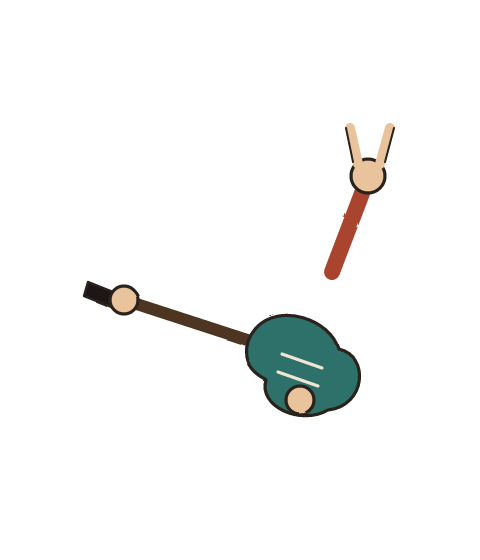
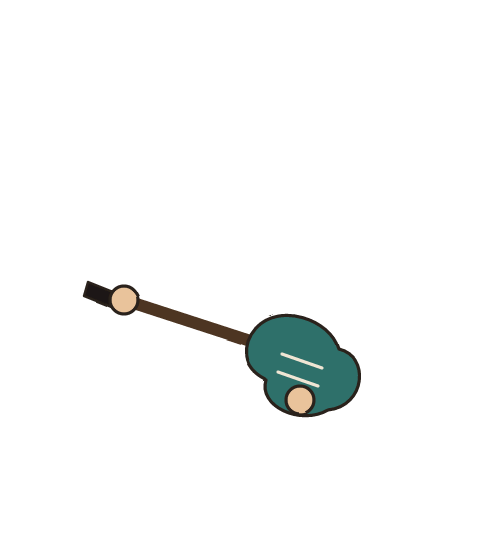
Guru as metronome with a horns hand; short, non-overlapping click flashes
Every stage now raises the horns hand (its own layer, re-rasterised; red
sweatband on stage 2, studded band on 4-5; the floating note moves left).
The arm swings about the shoulder like a pendulum, one cycle per two beats:
it passes the middle of its travel at full speed on each click and turns on
the off-beat eighths. The head moves with it, with the per-stage amplitudes
and a smooth beat-one emphasis. Phase comes from the audio clock on the play
screen and from the selected tempo on the main screen.

The click dot holds full colour for up to 50 ms and fades out within 120 ms
more or by 35 % of the beat, so each flash is over before the next click.

Changed region(s): [[0.6562, 0.2125, 0.8438, 0.5161]]

diff --git a/src/mascot.rs b/src/mascot.rs
@@ -1,6 +1,9 @@
 //! The guru mascot: rasterised PNG layers (see `examples/rasterize_mascot.rs`) animated as
-//! sprites. It keeps time by a head bob phase-locked to the click (driven by the audio
-//! clock), deeper on beat one; five stages from serene to full metal.
+//! sprites. It is a metronome: the raised horns hand swings like a pendulum, one full
+//! cycle per two beats, passing the middle of its travel (its fastest point) on every
+//! click with the turning points on the off-beat eighths; the head moves with it, wider
+//! on beat one. Phase comes from the caller's clock (the audio clock while playing). Five
+//! stages from serene to full metal.
 
 use std::collections::HashMap;
 
@@ -10,7 +13,9 @@ use crate::paint::Paint;
 use crate::patterns::{BPM_MIN, BPM_STEP};
 
 pub const STAGE_NAMES: [&str; 6] = ["", "Serene", "Plugged in", "Horns up", "Storm", "Full metal"];
-const LAYERS: [&str; 7] = ["back", "hairback", "fly", "torso", "head", "front", "over"];
+const LAYERS: [&str; 8] = ["back", "hairback", "fly", "torso", "head", "front", "arm", "over"];
+/// Shoulder the raised arm swings about (viewBox units).
+const ARM_PIVOT: Vec2 = Vec2::new(166.0, 136.0);
 /// Source viewBox of the layers.
 const VW: f32 = 240.0;
 const VH: f32 = 280.0;
@@ -58,29 +63,44 @@ pub fn load(mut commands: Commands, assets: Res<AssetServer>) {
     commands.insert_resource(MascotImages { layers });
 }
 
-/// Head motion at click phase `phase` (0 = the click; None = still).
+/// Head and arm motion.
 pub struct Pose {
     dy: f32,
     sy: f32,
     rot_deg: f32,
     lift: f32,
+    /// Arm rotation about the shoulder, degrees (positive = clockwise on screen, down).
+    arm_deg: f32,
 }
 
-pub fn pose(stage: u32, phase: Option<f64>, accent: bool) -> Pose {
+/// Pendulum position at `beats` (beat count from the clock, beat one of a bar at multiples
+/// of 4): sin(pi * beats), 0 on every click, +/-1 on the off-beat eighths; one full cycle
+/// per two beats. Positive = head down / arm lowered.
+pub fn swing(beats: f64) -> f64 {
+    (std::f64::consts::PI * beats).sin()
+}
+
+/// Pose at `beats` (None = still, arm and head in the middle).
+pub fn pose(stage: u32, beats: Option<f64>) -> Pose {
     const AMP: [f32; 6] = [0.0, 1.5, 2.5, 4.0, 6.0, 9.0];
     const SQ: [f32; 6] = [0.0, 0.02, 0.03, 0.05, 0.07, 0.10];
+    const ARM: [f32; 6] = [0.0, 12.0, 14.0, 16.0, 19.0, 23.0];
     let s = stage.clamp(1, 5) as usize;
-    let mut c = phase.map_or(0.0, |ph| (0.5 + 0.5 * (std::f64::consts::TAU * ph).cos()) as f32);
-    if phase.is_some() && s >= 4 {
-        c = c.powf(2.2);
+    let u = beats.map_or(0.0, swing) as f32;
+    // Beat-one emphasis: a smooth bump (x1.35 at its peak) over the beat either side of
+    // each bar's first click, so the amplitude never jumps.
+    let k = beats.map_or(1.0, |b| {
+        let d = (b - 4.0 * (b / 4.0).round()).abs();
+        if d < 1.0 { 1.0 + 0.35 * (0.5 + 0.5 * (std::f64::consts::PI * d).cos()) as f32 } else { 1.0 }
+    });
+    let down = u.max(0.0);
+    Pose {
+        dy: AMP[s] * u * k,
+        sy: 1.0 - SQ[s] * down * k,
+        rot_deg: if s == 5 { -12.0 - 6.0 * u * k } else { 0.0 },
+        lift: 0.5 - 0.5 * u,
+        arm_deg: ARM[s] * u * k,
     }
-    let k = if accent { 1.35 } else { 1.0 };
-    let rot_deg = if s == 5 {
-        if phase.is_some() { -6.0 - 6.0 * c } else { -14.0 }
-    } else {
-        0.0
-    };
-    Pose { dy: AMP[s] * c * k, sy: 1.0 - SQ[s] * c * k, rot_deg, lift: if phase.is_some() { 1.0 - c } else { 1.0 } }
 }
 
 /// Draw the guru with its top-left at (x, y), `scale` design px per viewBox unit.
@@ -92,10 +112,9 @@ pub fn draw(p: &mut Paint, imgs: &MascotImages, x: f32, y: f32, scale: f32, stag
     let body_dy = ps.dy * 0.2;
     // A layer scaled in y by `sy` about viewBox y `py`, then rotated by `rot` about the head
     // pivot (120,128) and moved down by `dy` (all in viewBox units, y down).
-    let layer = |p: &mut Paint, l: &'static str, sy: f32, py: f32, rot_deg: f32, dy: f32| {
+    let layer_about = |p: &mut Paint, l: &'static str, sy: f32, py: f32, rot_deg: f32, dy: f32, piv: Vec2| {
         let Some(h) = get(l) else { return };
-        let a = Vec2::new(120.0, py);
-        let piv = Vec2::new(120.0, 128.0);
+        let a = Vec2::new(piv.x, py);
         let th = rot_deg.to_radians();
         let v = a - piv;
         // y-down rotation: positive angle turns clockwise on screen.
@@ -103,6 +122,9 @@ pub fn draw(p: &mut Paint, imgs: &MascotImages, x: f32, y: f32, scale: f32, stag
         let pos = piv + rv + Vec2::new(0.0, dy);
         let anchor = Vec2::new(a.x / VW - 0.5, 0.5 - a.y / VH);
         p.image(h, to(pos.x, pos.y), Vec2::new(size.x, size.y * sy), anchor, -th, Color::WHITE);
+    };
+    let layer = |p: &mut Paint, l: &'static str, sy: f32, py: f32, rot_deg: f32, dy: f32| {
+        layer_about(p, l, sy, py, rot_deg, dy, Vec2::new(120.0, 128.0));
     };
     let head_dy = ps.dy + body_dy;
     layer(p, "back", 1.0, 128.0, 0.0, 0.0);
@@ -117,6 +139,7 @@ pub fn draw(p: &mut Paint, imgs: &MascotImages, x: f32, y: f32, scale: f32, stag
     layer(p, "torso", 1.0, 128.0, 0.0, body_dy);
     layer(p, "head", ps.sy, 128.0, ps.rot_deg, head_dy);
     layer(p, "front", 1.0, 128.0, 0.0, body_dy);
+    layer_about(p, "arm", 1.0, ARM_PIVOT.y, ps.arm_deg, body_dy, ARM_PIVOT);
     layer(p, "over", 1.0, 128.0, 0.0, 0.0);
 }
 
@@ -132,11 +155,29 @@ mod tests {
         assert_eq!(stage_for(120, 2), 3); // 4 + 4 = 8
         assert_eq!(stage_for(160, 2), 4); // 6 + 4 = 10
         assert_eq!(stage_for(180, 4), 5);
-        let still = pose(5, None, false);
-        assert_eq!(still.rot_deg, -14.0);
-        let on_click = pose(3, Some(0.0), true);
-        assert!((on_click.dy - 4.0 * 1.35).abs() < 1e-5);
-        let off = pose(3, Some(0.5), false);
-        assert!(off.dy.abs() < 1e-5);
+        let still = pose(5, None);
+        assert_eq!(still.rot_deg, -12.0);
+        assert_eq!(still.arm_deg, 0.0);
+    }
+
+    /// The arm passes the middle of its travel on every click (at full speed, alternating
+    /// direction) and turns on the off-beat eighths.
+    #[test]
+    fn arm_is_a_metronome() {
+        for beat in 0..8 {
+            let b = f64::from(beat);
+            let on = pose(3, Some(b));
+            assert!(on.arm_deg.abs() < 1e-3 && on.dy.abs() < 1e-3, "beat {beat}: {}", on.arm_deg);
+            let (before, after) = (pose(3, Some(b - 0.02)).arm_deg, pose(3, Some(b + 0.02)).arm_deg);
+            assert!(before.signum() == -after.signum() && after.abs() > 0.5, "moving through the middle");
+            let dir = if beat % 2 == 0 { 1.0 } else { -1.0 };
+            assert!(after * dir > 0.0, "direction alternates per beat");
+            let ext = pose(3, Some(b + 0.5)).arm_deg;
+            assert!((ext.abs() - 16.0).abs() < 16.0 * 0.36, "extreme on the off-beat: {ext}");
+            assert!((pose(3, Some(b + 0.49)).arm_deg.abs() - ext.abs()).abs() < 0.1);
+        }
+        // Head moves with the arm.
+        let p = pose(4, Some(0.3));
+        assert!(p.dy > 0.0 && p.arm_deg > 0.0);
     }
 }

diff --git a/examples/rasterize_mascot.rs b/examples/rasterize_mascot.rs
@@ -6,9 +6,11 @@
 //!
 //! Writes `assets/mascot/s{stage}_{mood}_{layer}.png` (viewBox 240x280 at 2x).
 //! Layers, back to front: back (fire, cloud, lightning), hairback, fly (flying hair),
-//! torso, head, front (guitar, horns hand), over (notes, petals, lotus).
+//! torso, head, front (guitar), arm (raised horns hand, every stage but sad), over (notes,
+//! petals, lotus).
 //! Runtime transforms (see `src/mascot.rs`): hairback/fly/head follow the head bob
-//! (pivot 120,128), torso/front follow the body at 20 %, fly is also stretched about (120,70).
+//! (pivot 120,128), torso/front follow the body at 20 %, fly is also stretched about
+//! (120,70), arm swings about the shoulder (`ARM_PIVOT`, 166,136) like a metronome.
 
 use std::path::Path;
 
@@ -161,18 +163,32 @@ fn layer(stage: u32, mood: Mood, name: &str) -> String {
 <circle cx="64" cy="133" r="7" fill="#e9c39b"/><circle cx="148" cy="190" r="7" fill="#e9c39b"/>"##
                 }
             }
-            if s >= 3 && !sad {
+        }
+        "arm" => {
+            if !sad {
+                // Sleeve from the shoulder (166,136); on stages 1-2 it starts inside the
+                // round robe. Wrist: red sweatband (stage 2, like the headband), studded
+                // black band (stages 4-5).
+                let from = if s <= 2 { "M160 142" } else { "M166 136" };
                 b += &format!(
-                    r##"<path d="M166 136 L 182 94" stroke-width="8" stroke="{robe}"/>
+                    r##"<path d="{from} L 182 94" stroke-width="8" stroke="{robe}"/>
 <circle cx="184" cy="88" r="8.5" fill="#e9c39b"/>
 <path d="M179 82 L 175 64 M190 82 L 195 64" stroke-width="5" stroke="#e9c39b"/>
 <path d="M176.5 81 L 173 64 M192.5 81 L 197 64" fill="none" stroke-width="1"/>"##
                 );
+                if s == 2 {
+                    b += r##"<path d="M171.5 104.7 L 182.7 108.9 L 184.5 104.3 L 173.3 100.1 Z" fill="#b5452f" stroke-width="1.2"/>"##;
+                }
+                if s >= 4 {
+                    b += r##"<path d="M171.5 104.7 L 182.7 108.9 L 184.5 104.3 L 173.3 100.1 Z" fill="#1d1612" stroke-width="1.2"/>
+<circle cx="174.6" cy="103.4" r="1.3" fill="#cfc6b8" stroke="none"/><circle cx="178" cy="104.6" r="1.3" fill="#cfc6b8" stroke="none"/><circle cx="181.4" cy="105.9" r="1.3" fill="#cfc6b8" stroke="none"/>"##;
+                }
             }
         }
         "over" => {
             if s <= 2 && !sad {
-                b += r##"<path d="M196 72 v-16 l9 -2.5 v16 M196 72 a3.5 2.6 0 1 1 -1 -1 M205 69.5 a3.5 2.6 0 1 1 -1 -1" fill="#1f7a6e" stroke="#1f7a6e" stroke-width="1.3"/>"##;
+                // Floating note on the left: the raised hand is on the right.
+                b += r##"<path transform="translate(-160 0)" d="M196 72 v-16 l9 -2.5 v16 M196 72 a3.5 2.6 0 1 1 -1 -1 M205 69.5 a3.5 2.6 0 1 1 -1 -1" fill="#1f7a6e" stroke="#1f7a6e" stroke-width="1.3"/>"##;
             }
             if happy {
                 b += r##"<g stroke-width="1"><path d="M34 44 c4 -6 10 -4 8 2 c-2 5 -8 4 -8 -2 Z" fill="#dca451"/>
@@ -202,7 +218,7 @@ fn main() {
     let mut n = 0;
     for stage in 1..=5 {
         for (mood, mname) in [(Mood::Neutral, "neutral"), (Mood::Happy, "happy"), (Mood::Sad, "sad")] {
-            for name in ["back", "hairback", "fly", "torso", "head", "front", "over"] {
+            for name in ["back", "hairback", "fly", "torso", "head", "front", "arm", "over"] {
                 let svg = layer(stage, mood, name);
                 let tree = resvg::usvg::Tree::from_str(&svg, &opt).unwrap_or_else(|e| panic!("{stage} {mname} {name}: {e}"));
                 let mut pix = resvg::tiny_skia::Pixmap::new((W as f32 * SCALE) as u32, (H as f32 * SCALE) as u32).unwrap();

diff --git a/src/ui_play.rs b/src/ui_play.rs
@@ -63,8 +63,7 @@ pub fn draw(g: &mut Game, p: &mut Paint, imgs: &MascotImages) {
         let beats = t / beat_s;
         let running = t >= 0.0 && (waiting || t < total);
         let stage = mascot::stage_for(bpm, mask.count_ones());
-        let near = beats.round() as i64;
-        let pose = mascot::pose(stage, running.then(|| beats - beats.floor()), near.rem_euclid(BEATS_PER_BAR as i64) == 0);
+        let pose = mascot::pose(stage, running.then_some(beats));
         mascot::draw(p, imgs, 266.0, 168.0, 0.95, stage, Mood::Neutral, &pose);
         p.label_at(946.0, 285.0, &format!("stage {stage} \u{b7} {}", STAGE_NAMES[stage as usize]), Align::Left, col::DIM);
 
@@ -72,7 +71,7 @@ pub fn draw(g: &mut Game, p: &mut Paint, imgs: &MascotImages) {
         let (dx, dy, dr) = (720.0, 293.0, 163.0);
         let cur_beat = beats.floor() as i64;
         let since = ((beats - beats.floor()) * beat_s) as f32;
-        let flash = if running { (-since / 0.14).exp() } else { 0.0 };
+        let flash = if running { flash_level(f64::from(since), beat_s) } else { 0.0 };
         let accent = cur_beat.rem_euclid(BEATS_PER_BAR as i64) == 0;
         let hue = if accent { col::LATE } else { col::EARLY };
         p.ring(dx, dy, dr + 22.0, col::LINE);
@@ -249,5 +248,38 @@ fn count_label(k: i32) -> String {
         1 => "e".into(),
         2 => "+".into(),
         _ => "a".into(),
+    }
+}
+
+/// Click-dot flash, `since` seconds after a click: full colour for up to 50 ms, then a
+/// smooth fade that is over 120 ms later or at 35 % of the beat, whichever comes first.
+/// Each flash ends well before the next click, so colours never blend between clicks.
+fn flash_level(since: f64, beat_s: f64) -> f32 {
+    let end = (0.05 + 0.12f64).min(0.35 * beat_s);
+    let hold = 0.05f64.min(0.4 * end);
+    if since < 0.0 || since >= end {
+        0.0
+    } else if since < hold {
+        1.0
+    } else {
+        let x = (since - hold) / (end - hold);
+        (1.0 - x * x * (3.0 - 2.0 * x)) as f32
+    }
+}
+
+#[cfg(test)]
+mod tests {
+    use super::*;
+
+    #[test]
+    fn flash_is_short_and_never_overlaps() {
+        for bpm in [40.0, 80.0, 120.0, 180.0, 240.0] {
+            let beat = 60.0 / bpm;
+            assert_eq!(flash_level(0.0, beat), 1.0);
+            assert_eq!(flash_level(0.35 * beat, beat), 0.0, "{bpm} BPM: over by 35 % of the beat");
+            assert_eq!(flash_level(0.171, beat), 0.0, "{bpm} BPM: over within 170 ms");
+        }
+        assert_eq!(flash_level(0.045, 0.75), 1.0);
+        assert!(flash_level(0.1, 0.75) > 0.1 && flash_level(0.1, 0.75) < 0.9);
     }
 }

diff --git a/src/ui_menu.rs b/src/ui_menu.rs
@@ -82,13 +82,12 @@ pub fn draw(g: &mut Game, p: &mut Paint, keys: &ButtonInput<KeyCode>, imgs: &Mas
         return;
     }
 
-    // ---------- the guru (left), nodding along at the selected tempo
+    // ---------- the guru (left), a metronome at the selected tempo
     let mix = g.mix;
     let sel_bpm = g.selected.bpm;
     let stage = mascot::stage_for(sel_bpm, mix.count_ones());
     let beats = g.clock * f64::from(sel_bpm) / 60.0;
-    let accent = (beats.round() as i64).rem_euclid(4) == 0;
-    let pose = mascot::pose(stage, Some(beats - beats.floor()), accent);
+    let pose = mascot::pose(stage, Some(beats));
     mascot::draw(p, imgs, 220.0, 196.0, 1.15, stage, Mood::Neutral, &pose);
 
     // ---------- ingredients

diff --git a/src/ui_results.rs b/src/ui_results.rs
@@ -95,7 +95,7 @@ pub fn draw(g: &mut Game, p: &mut Paint, imgs: &MascotImages) {
     let stage = mascot::stage_for(lvl.bpm, lvl.mask().count_ones());
     let better = r.prev_best.as_ref().is_none_or(|b| rep.combined_pct > b.combined);
     let mood = if pass { Mood::Happy } else { Mood::Sad };
-    mascot::draw(p, imgs, 760.0, 120.0, 0.62, stage, mood, &mascot::pose(stage, None, false));
+    mascot::draw(p, imgs, 760.0, 120.0, 0.62, stage, mood, &mascot::pose(stage, None));
     let quote = verdict(r, pass, better);
     let lines = wrap(&quote, 40);
     for (i, l) in lines.iter().enumerate() {
